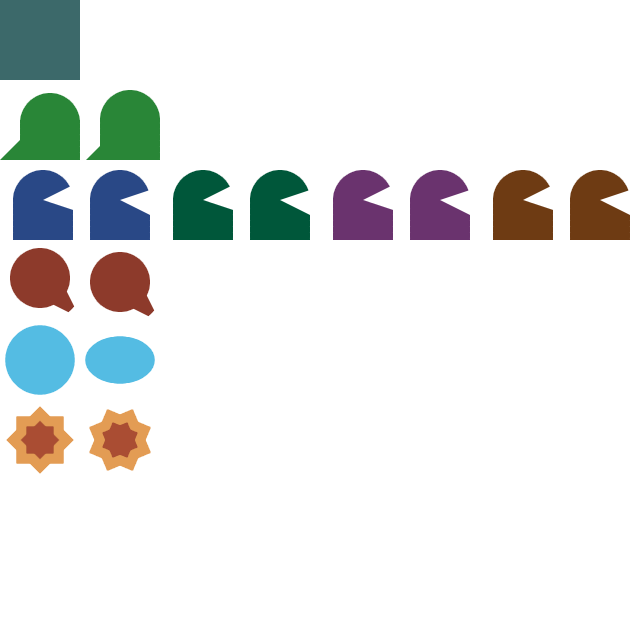
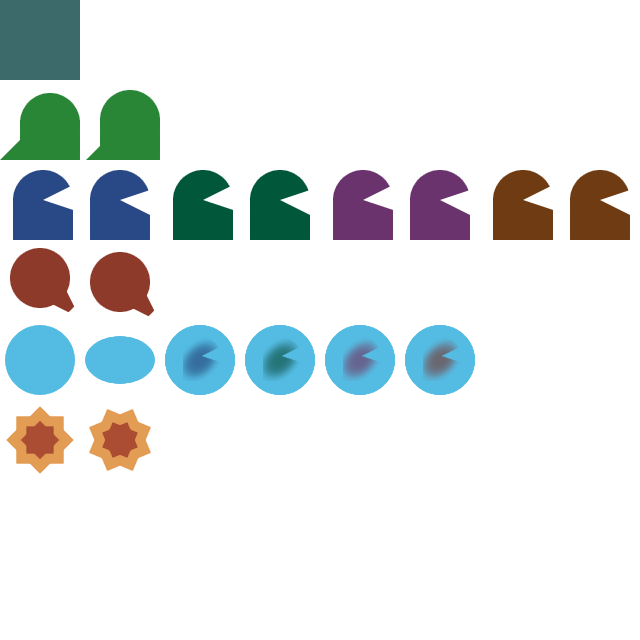
add capturing enemies

Changed region(s): [[0.25, 0.5, 0.75, 0.625]]

diff --git a/src/main/java/edu/uwb/ii/bubble_bobble/scenes/game/Game.java b/src/main/java/edu/uwb/ii/bubble_bobble/scenes/game/Game.java
@@ -1,10 +1,10 @@
 package edu.uwb.ii.bubble_bobble.scenes.game;
 
-import edu.uwb.ii.bubble_bobble.App;
 import edu.uwb.ii.bubble_bobble.game.entity.Enemy;
 import edu.uwb.ii.bubble_bobble.game.entity.Player;
 import edu.uwb.ii.bubble_bobble.game.entity.Projectile;
 import edu.uwb.ii.bubble_bobble.game.entity.enemy.Errant;
+import edu.uwb.ii.bubble_bobble.game.entity.projectile.Bubble;
 import edu.uwb.ii.bubble_bobble.game.rendering.ResourceManager;
 import javafx.scene.canvas.GraphicsContext;
 
@@ -75,6 +75,7 @@ public class Game {
 //        -- drawing
 
         _level.draw(gc, scale);
+
         for(Enemy e : _enemies)
             e.draw(gc, scale);
         _player.draw(gc, scale);
@@ -86,10 +87,26 @@ public class Game {
 
 //        -- collisions
 
-        for(Iterator<Enemy> it = _enemies.iterator(); it.hasNext();) {
-            Enemy e = it.next();
-            if(e.collide(_player))
+        for(Iterator<Projectile> it = _bubbles.iterator(); it.hasNext();) {
+
+            Bubble b = (Bubble) it.next();
+            if(b.isActive()) {
+
+                int i = 0;
+                for(Enemy e : _enemies) {
+                    if(b.collide(e)) {
+                        b.capture(_enemies.remove(i));
+                        break;
+                    }
+                    i++;
+                }
+
+            }
+            else if(b.collide(_player)) {
                 it.remove();
+            }
+
+
         }
 
     }

diff --git a/src/main/java/edu/uwb/ii/bubble_bobble/game/entity/projectile/Bubble.java b/src/main/java/edu/uwb/ii/bubble_bobble/game/entity/projectile/Bubble.java
@@ -1,5 +1,6 @@
 package edu.uwb.ii.bubble_bobble.game.entity.projectile;
 
+import edu.uwb.ii.bubble_bobble.game.entity.Enemy;
 import edu.uwb.ii.bubble_bobble.game.entity.Projectile;
 import edu.uwb.ii.bubble_bobble.game.rendering.Animations;
 import edu.uwb.ii.bubble_bobble.game.rendering.ResourceManager;
@@ -8,6 +9,7 @@ import edu.uwb.ii.bubble_bobble.scenes.game.Game;
 public class Bubble extends Projectile {
 
     private boolean _active;
+    private Enemy _captive;
 
     public Bubble(double x, double y, int direction) {
 
@@ -18,14 +20,25 @@ public class Bubble extends Projectile {
 
     }
 
+    public boolean isActive() { return _active; }
+
+    public void capture(Enemy enemy) {
+
+        _captive = enemy;
+
+    }
+
     @Override
     public void movementRules() {
 
-        if(_active && (_traveled >= _max_distance || _dx == 0)) {
+        if(_active && (_traveled >= _max_distance || _dx == 0 || _captive != null)) {
 
-            _animation = Animations.TMP_BUBBLE_FLY;
+            if(_captive == null) _animation = Animations.TMP_BUBBLE_FLY;
+            else _animation = Animations.TMP_ENEMY_CAPTURED;
+
             _dx = 0;
             _dy = -Game.GRAVITY / 4.0;
+            _active = false;
 
         }
 

diff --git a/src/main/java/edu/uwb/ii/bubble_bobble/game/entity/Player.java b/src/main/java/edu/uwb/ii/bubble_bobble/game/entity/Player.java
@@ -59,7 +59,7 @@ public class Player extends Entity {
         }
 
         if(_controls.action && _cooldown <= 0.0) {
-            _projectiles.add(new Bubble(front(), _y, _direction));
+            _projectiles.add(new Bubble(front() - _direction, _y, _direction));
             _cooldown = 1.0;
         }
 

diff --git a/src/main/java/edu/uwb/ii/bubble_bobble/game/rendering/Animations.java b/src/main/java/edu/uwb/ii/bubble_bobble/game/rendering/Animations.java
@@ -10,5 +10,6 @@ public interface Animations {
     Animation TMP_ENEMY = new Animation(16, 2, 4);
     Animation TMP_BUBBLE_FLY = new Animation(32, 1, 0);
     Animation TMP_BUBBLE_RUSH = new Animation(33, 1, 0);
+    Animation TMP_ENEMY_CAPTURED = new Animation(34, 1, 0);
 
 }
